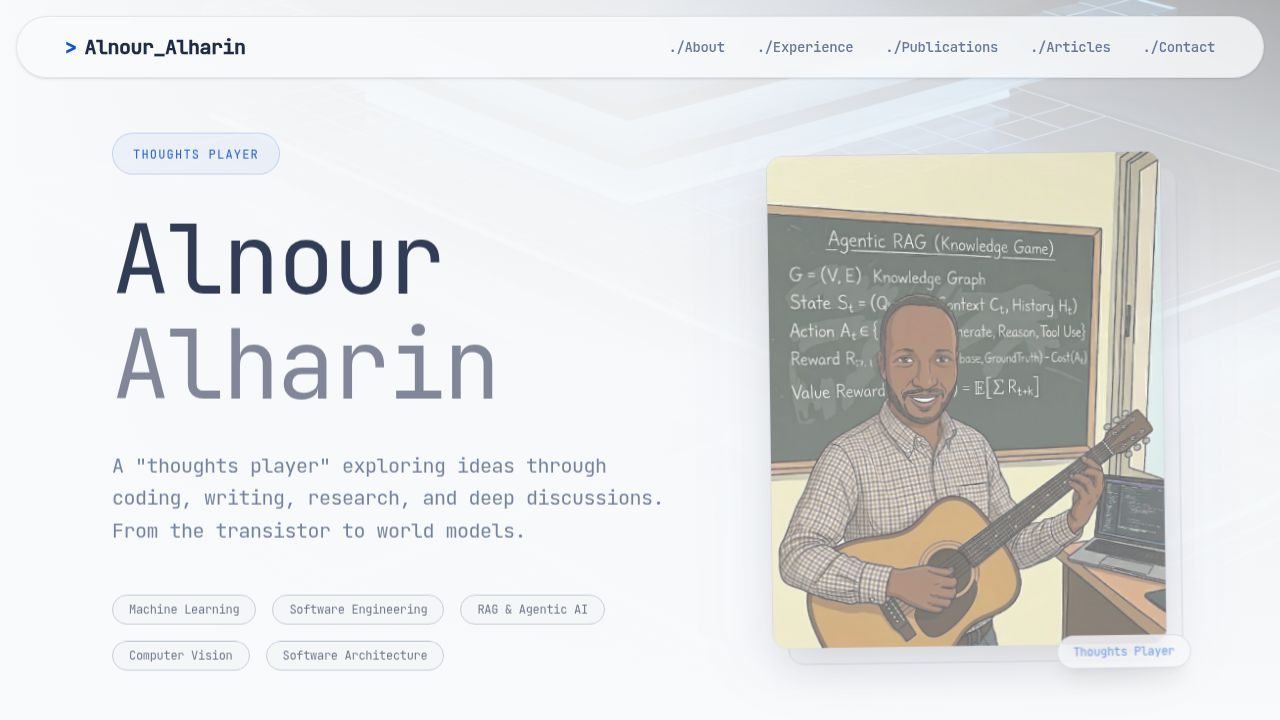
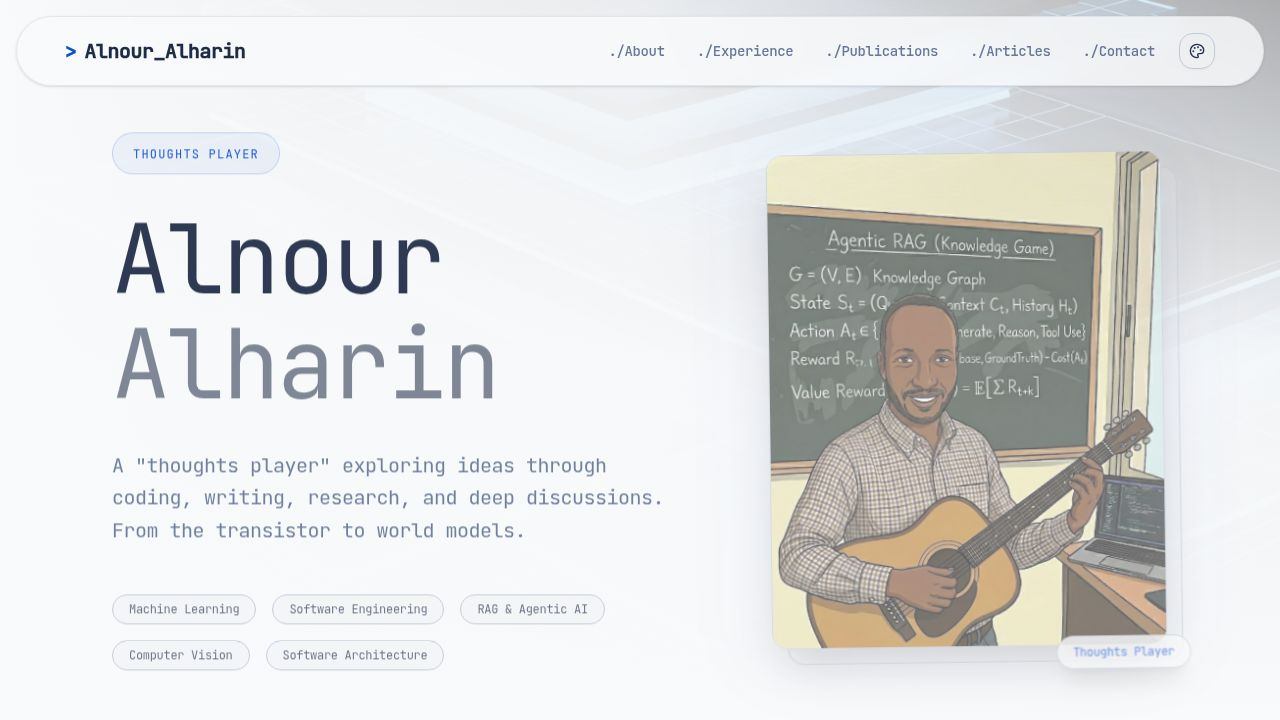
Add theme switcher to the navigation bar
Integrate the ThemeSwitcher component into the Navigation bar by importing it and rendering it alongside other navigation elements.

Replit-Commit-Author: Agent
Replit-Commit-Session-Id: f8b4dd30-061b-4395-9535-9638d0bfc924
Replit-Commit-Checkpoint-Type: full_checkpoint
Replit-Commit-Event-Id: 8835032b-4828-44d5-83e0-1f1ae84a6999
Replit-Commit-Screenshot-Url: https://storage.googleapis.com/screenshot-production-us-central1/a4b37b4a-2c31-4885-a867-91875f22c26e/f8b4dd30-061b-4395-9535-9638d0bfc924/hz3W15U
Replit-Helium-Checkpoint-Created: true

Changed region(s): [[0.4688, 0.0611, 1.0, 0.1222], [0.0312, 0.0611, 0.1875, 0.0917]]

diff --git a/client/src/components/Navigation.tsx b/client/src/components/Navigation.tsx
@@ -1,4 +1,5 @@
 import { GraduationCap } from "lucide-react";
+import { ThemeSwitcher } from "./ThemeSwitcher";
 
 export function Navigation() {
   return (
@@ -15,6 +16,7 @@ export function Navigation() {
           <a href="/articles" className="hover:text-primary transition-colors" data-testid="link-articles">./Articles</a>
           <a href="/#contact" className="hover:text-primary transition-colors" data-testid="link-contact">./Contact</a>
         </div>
+        <ThemeSwitcher />
       </div>
     </nav>
   );
